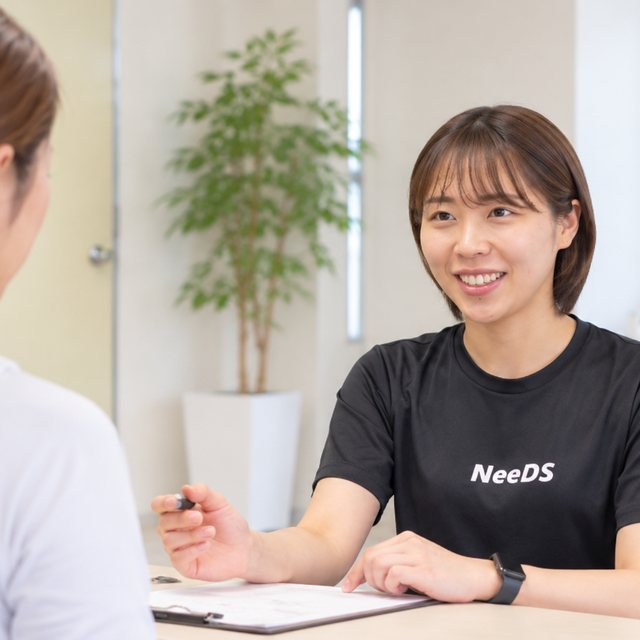
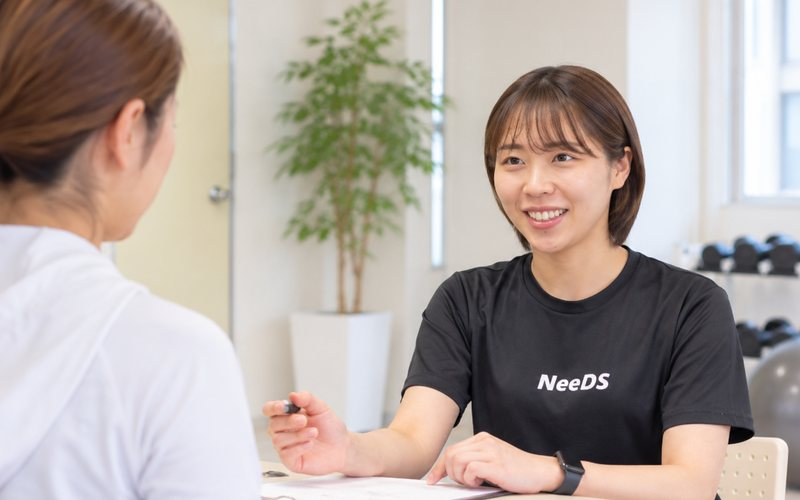
最終CTAの写真を引きの画角に、住所に地図リンク、バッジを刷新
- 最終CTAの写真を「あなた専用プランをご提案」と同じ画角（16:10）に統一。
  PCの枠を 1:1 → 16:10、写真の列幅を 230→320px に広げ、2人が話している
  様子が分かるようにした
- 六甲道店・六甲風の郷店の住所にGoogleマップへのリンクを追加（「地図」バッジ付き）
- ヘッダーの店名を「プライベートジムNeeDS」に。太字・大きめ（17px／PC 21px）
- ヒーローのバッジ：「プロに教えるプロが」→「プロのトレーナーが」、
  位置を右下→左上、色を黄土色から明るい水色〜青のグラデーションに変更
- 「プロにも選ばれています。」→「一流にも選ばれています。」

既存CSSブロックはバイト単位で同一を維持。

Claude-Session: https://claude.ai/code/session_01Re5nFwUBRuEXj6DTQGbL92

diff --git a/women-v2/index.html b/women-v2/index.html
@@ -587,8 +587,9 @@ body{ background:var(--paper-3); }
 .hero2-media{ position:relative; background:#e3ded6; }
 .hero2-photo{ width:100%; display:block; aspect-ratio:16/9; object-fit:cover; object-position:20% 50%; }
 .hero2-badge{
-  position:absolute; right:8px; bottom:8px; width:92px; height:92px; border-radius:50%;
-  background:var(--gold); color:#fff; display:flex; align-items:center; justify-content:center;
+  position:absolute; left:8px; top:8px; width:96px; height:96px; border-radius:50%;
+  background:linear-gradient(140deg, #57c4ef 0%, #1a80c4 100%);
+  color:#fff; display:flex; align-items:center; justify-content:center;
   text-align:center; padding:7px; font-size:8px; font-weight:500; line-height:1.55; letter-spacing:-.03em;
   box-shadow:0 5px 16px rgba(10,44,66,.22);
 }
@@ -622,7 +623,7 @@ body{ background:var(--paper-3); }
   .hero2-body{ order:1; display:flex; flex-direction:column; justify-content:center; padding:34px 34px 34px 22px; }
   .hero2-photo{ height:100%; aspect-ratio:auto; min-height:460px; }
   .hero2-title{ font-size:38px; }
-  .hero2-badge{ width:120px; height:120px; font-size:9.5px; padding:11px; right:16px; bottom:16px; line-height:1.65; }
+  .hero2-badge{ width:126px; height:126px; font-size:9.5px; padding:11px; left:16px; top:16px; line-height:1.65; }
 }
 @media (min-width:1200px){ .hero2-title{ font-size:43px; } }
 
@@ -697,10 +698,20 @@ body{ background:var(--paper-3); }
 @media (min-width:768px){ .mk-line{ font-size:20px; } }
 
 /* ヘッダーの店名 */
-.brand{ display:flex; align-items:center; gap:9px; text-decoration:none; }
-.brand-name{ font-family:var(--ff-mn); font-size:13px; font-weight:500; letter-spacing:.02em; color:var(--navy); line-height:1.35; }
-@media (min-width:768px){ .brand{ gap:11px; } .brand-name{ font-size:16px; } }
+.brand{ display:flex; align-items:center; gap:10px; text-decoration:none; flex:1 1 auto; min-width:0; }
+.brand-name{ font-family:var(--ff-mn); font-size:17px; font-weight:700; letter-spacing:.01em; color:var(--navy); line-height:1.3; }
+@media (max-width:379px){ .brand{ gap:8px; } .brand-name{ font-size:15px; } }
+@media (min-width:768px){ .brand{ gap:13px; flex:0 0 auto; } .brand-name{ font-size:21px; } }
 .gnav{ margin-left:auto; }
+
+/* 住所のGoogleマップリンク */
+.maplink{ color:inherit; text-decoration:none; border-bottom:1px solid var(--line); }
+.maplink:hover{ color:var(--navy); border-bottom-color:var(--navy); }
+.mapico{
+  margin-left:7px; display:inline-block; vertical-align:1px; white-space:nowrap;
+  font-size:9.5px; letter-spacing:.04em; color:var(--navy);
+  border:1px solid var(--navy); border-radius:4px; padding:1px 5px; line-height:1.5;
+}
 
 .rrow{ display:grid; grid-template-columns:repeat(4,1fr); gap:4px; margin-top:14px; }
 .rrow li{
@@ -885,9 +896,9 @@ body{ background:var(--paper-3); }
   .shop-dl dt{ flex:0 0 62px; font-size:11px; } .shop-dl dd{ margin-top:0; }
 }
 .fc-grid{ display:grid; gap:13px; align-items:center; }
-@media (min-width:900px){ .fc-grid{ grid-template-columns:230px 1fr; gap:36px; } }
+@media (min-width:900px){ .fc-grid{ grid-template-columns:320px 1fr; gap:34px; } }
 .fc-ph{ width:100%; aspect-ratio:5/2; object-fit:cover; border-radius:11px; background:#e3ded6; display:block; }
-@media (min-width:900px){ .fc-ph{ aspect-ratio:1/1; } }
+@media (min-width:900px){ .fc-ph{ aspect-ratio:16/10; } }
 .fc-ttl{ font-family:var(--ff-mn); font-size:18px; font-weight:500; line-height:1.6; color:var(--ink); letter-spacing:.02em; }
 .fc-ttl em{ font-style:normal; color:var(--navy); }
 @media (min-width:768px){ .fc-ttl{ font-size:24px; } }
@@ -935,7 +946,7 @@ height="0" width="0" style="display:none;visibility:hidden"></iframe></noscript>
   <div class="header-in">
     <a class="brand" href="#hero" aria-label="プライベートジムNeeDS">
       <img class="logo-img" src="images/logo.png" alt="プライベートジムNeeDS" width="420" height="313">
-      <span class="brand-name"><span class="nw">プライベートジム</span><span class="nw">ニーズ</span></span>
+      <span class="brand-name"><span class="nw">プライベートジム</span><span class="nw">NeeDS</span></span>
     </a>
     <nav class="gnav" aria-label="メインメニュー">
       <ul>
@@ -959,7 +970,7 @@ height="0" width="0" style="display:none;visibility:hidden"></iframe></noscript>
       <img class="hero2-photo" src="images/hero.jpg"
            alt="トレーナーの補助を受けながらマットの上でトレーニングをする女性"
            width="1600" height="800" fetchpriority="high" decoding="async">
-      <p class="hero2-badge"><span><span class="nw">プロに教えるプロが</span><br><span class="nw">あなたの身体を</span><br><span class="nw">マンツーマンで</span><br><span class="nw">サポート</span></span></p>
+      <p class="hero2-badge"><span><span class="nw">プロのトレーナーが</span><br><span class="nw">あなたの身体を</span><br><span class="nw">マンツーマンで</span><br><span class="nw">サポート</span></span></p>
     </div>
 
     <div class="hero2-body rv">
@@ -1126,7 +1137,7 @@ height="0" width="0" style="display:none;visibility:hidden"></iframe></noscript>
 <section class="band" id="pros">
   <div class="wrap">
     <div class="panel rv">
-      <p class="trust-line"><span class="nw">プロにも</span><span class="nw">選ばれています。</span></p>
+      <p class="trust-line"><span class="nw">一流にも</span><span class="nw">選ばれています。</span></p>
 
       <p class="hd-sub" style="margin-top:12px;text-align:center;"><span class="nw">またNeeDSには、</span><br><span class="nw">ドクター・アスリート・</span><span class="nw">モデル・経営者の方も</span><span class="nw">通われています。</span></p>
 
@@ -1325,7 +1336,7 @@ height="0" width="0" style="display:none;visibility:hidden"></iframe></noscript>
   <div class="wrap">
     <div class="panel sand rv">
       <div class="fc-grid">
-        <img class="fc-ph" src="images/プロに相談.jpg" alt="トレーナーに身体のことを相談しているお客様" width="640" height="640" style="object-position:50% 12%;" loading="lazy" decoding="async">
+        <img class="fc-ph" src="images/プロに相談.jpg" alt="トレーナーに身体のことを相談しているお客様" width="800" height="500" style="object-position:50% 45%;" loading="lazy" decoding="async">
         <div>
           <p class="fc-ttl">
             <span class="nw">まずは一度、</span><em><span class="nw">プロに相談してみよう</span></em>
@@ -1358,7 +1369,7 @@ height="0" width="0" style="display:none;visibility:hidden"></iframe></noscript>
           <div class="shop-body">
             <h3 class="shop-name"><small>Rokkomichi</small><span class="nw">NeeDS 六甲道店</span></h3>
             <dl class="shop-dl">
-              <div><dt>住所</dt><dd><span class="nw">〒657-0037</span> <span class="nw">兵庫県神戸市灘区</span><span class="nw">備後町3丁目1-23</span> <span class="nw">ノモズヴィレッジ101</span></dd></div>
+              <div><dt>住所</dt><dd><a class="maplink" href="https://www.google.com/maps/search/?api=1&amp;query=%E3%80%92657-0037%20%E5%85%B5%E5%BA%AB%E7%9C%8C%E7%A5%9E%E6%88%B8%E5%B8%82%E7%81%98%E5%8C%BA%E5%82%99%E5%BE%8C%E7%94%BA3%E4%B8%81%E7%9B%AE1-23%20%E3%83%8E%E3%83%A2%E3%82%BA%E3%83%B4%E3%82%A3%E3%83%AC%E3%83%83%E3%82%B8101" target="_blank" rel="noopener"><span class="nw">〒657-0037</span> <span class="nw">兵庫県神戸市灘区</span><span class="nw">備後町3丁目1-23</span> <span class="nw">ノモズヴィレッジ101</span><span class="mapico" aria-hidden="true">地図</span></a></dd></div>
               <div><dt>アクセス</dt><dd><span class="nw">JR六甲道駅から</span><span class="nw">徒歩5分</span></dd></div>
               <div><dt>電話</dt><dd><a href="tel:0788554163">078-855-4163</a></dd></div>
             </dl>
@@ -1369,7 +1380,7 @@ height="0" width="0" style="display:none;visibility:hidden"></iframe></noscript>
           <div class="shop-body">
             <h3 class="shop-name"><small>Rokko Kazenosato</small><span class="nw">NeeDS 六甲風の郷店</span></h3>
             <dl class="shop-dl">
-              <div><dt>住所</dt><dd><span class="nw">〒657-0053</span> <span class="nw">兵庫県神戸市灘区</span><span class="nw">六甲町4丁目1-15 2F</span></dd></div>
+              <div><dt>住所</dt><dd><a class="maplink" href="https://www.google.com/maps/search/?api=1&amp;query=%E3%80%92657-0053%20%E5%85%B5%E5%BA%AB%E7%9C%8C%E7%A5%9E%E6%88%B8%E5%B8%82%E7%81%98%E5%8C%BA%E5%85%AD%E7%94%B2%E7%94%BA4%E4%B8%81%E7%9B%AE1-15%202F" target="_blank" rel="noopener"><span class="nw">〒657-0053</span> <span class="nw">兵庫県神戸市灘区</span><span class="nw">六甲町4丁目1-15 2F</span><span class="mapico" aria-hidden="true">地図</span></a></dd></div>
               <div><dt>アクセス</dt><dd><span class="nw">阪急六甲駅から</span><span class="nw">徒歩5〜7分</span></dd></div>
               <div><dt>電話</dt><dd><a href="tel:0787779052">078-777-9052</a></dd></div>
             </dl>
